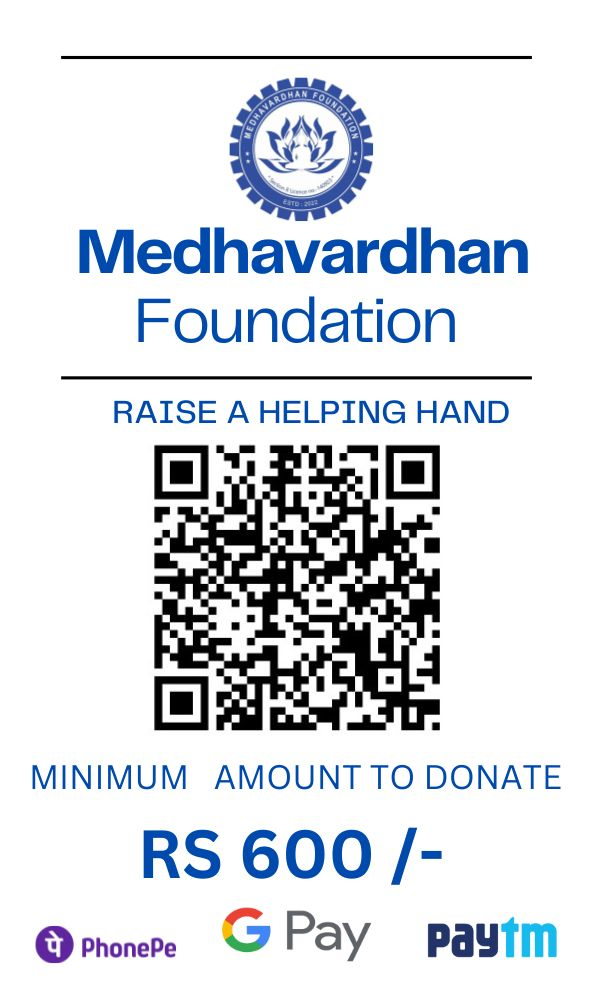
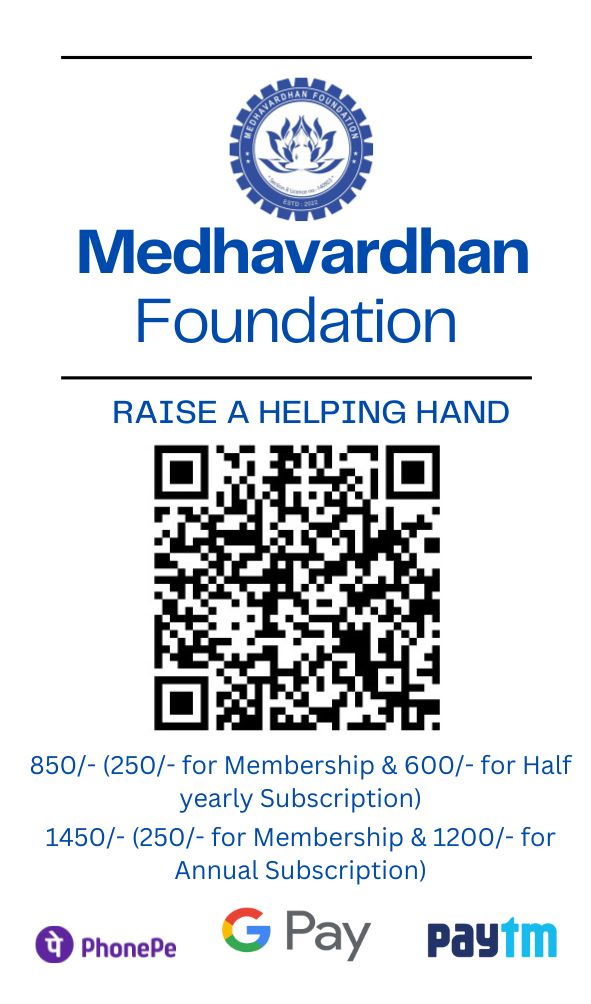
after host change #3

Changed region(s): [[0.0305, 0.741, 0.9746, 0.8954]]

diff --git a/membership.html b/membership.html
@@ -122,7 +122,7 @@
         <form class="member-form" method="POST" name="google-sheet">
           <div class="form-group row">
             <label for="formGroupName">Name</label>
-            <input type="text" class="form-control" name="Name" id="formGroupName" placeholder="Enter Your Name"
+            <input class="form-control" name="Name" id="formGroupName" placeholder="Enter Your Name"
               required>
           </div>
           <div class="form-group row">
@@ -141,44 +141,44 @@
 
           <div class="form-group row">
             <label for="formGroupName">PAN No. IN Caps</label>
-            <input type="" class="form-control" id="formGroupName" name="PAN" placeholder="ABCDF1234E"
-              pattern="[A-Z]{5}[0-9]{4}[A-Z]{1}" required>
+            <input class="form-control" id="formGroupName" name="PAN" placeholder="ABCDF1234E"
+             required>
           </div>
 
 
           <div class="form-group row">
             <label for="formGroupAddress">Address</label>
-            <input type="text" class="form-control" id="formGroupAddress" name="Address"
+            <input class="form-control" id="formGroupAddress" name="Address"
               placeholder="Enter Your Address" required>
           </div>
           <div class="form-group row">
             <label for="formGroupCity">City</label>
-            <input type="text" class="form-control" id="formGroupcity" name="City" placeholder="Enter Your City"
+            <input class="form-control" id="formGroupcity" name="City" placeholder="Enter Your City"
               required>
           </div>
           <div class="form-group row">
             <label for="formGroupCity">State</label>
-            <input type="text" class="form-control" id="formGroupcity" name="State" placeholder="Enter Your State"
+            <input class="form-control" id="formGroupcity" name="State" placeholder="Enter Your State"
               required>
           </div>
           <div class="form-group row">
             <label for="formGroupCity">Pin Code</label>
-            <input type="" class="form-control" id="formGroupcity" name='Pin' placeholder="Enter Your Pin" required>
+            <input  class="form-control" id="formGroupcity" name='Pin' placeholder="Enter Your Pin" required>
           </div>
           <div class="form-group row">
             <label for="exampleInputEmail1" class="form-label">Email address</label>
-            <input type="email" class="form-control" id="exampleInputEmail1" name="email" placeholder="abc@xyz.com"
+            <input class="form-control" id="exampleInputEmail1" name="email" placeholder="abc@xyz.com"
               aria-describedby="emailHelp" required>
             <div id="emailHelp" class="form-text">We'll never share your email with anyone else.</div>
           </div>
           <div class="form-group row">
             <label for="exampleInputNo" class="form-label">Contact No.</label>
-            <input type="tel" class="form-control" id="exampleInputNo" name="Phone" placeholder="1234567890"
-              pattern="[0-9]{10}" required>
+            <input type="tel" class="form-control" id="exampleInputNo" name="Phone No" placeholder="1234567890"
+             required>
           </div>
           <div class="form-group row">
             <label for="formGroupName">Profession</label>
-            <input type="text" class="form-control" id="formGroupName" name="Profession"
+            <input class="form-control" id="formGroupName" name="Profession"
               placeholder="Enter Your Profession" required>
           </div>
           <div class="form-group row">
@@ -212,6 +212,11 @@
             <br>
             8) Membership Fee should be paid with Application Form. On Rejection of
             Application the Membership fee will be refund within 7 working days.
+            <br>
+            9) Membership Fee :-<br>
+            Rs 850/- (250/- for Membership & 600/- for Half yearly Subscription)<br>
+            Rs 1450/- (250/- for Membership & 1200/- for Yearly Subscription)
+            
             <br>
             </p>
             <div class="form-check">
@@ -257,7 +262,7 @@
         fetch(scriptURL, { method: 'POST', body: new FormData(form) })
           .then(response => {
             alert("Thanks for showing interest. We will get back to you soon")
-            window.location.replace('index.html');
+            window.location.replace('donate2.html');
           })
           .catch(error => console.error('Error!', error.message))
       })

diff --git a/donate.html b/donate.html
@@ -117,10 +117,10 @@
           Fill The Details To Donate
         </div>
         <div class="member">
-          <form class="member-form" method="POST" name="google-sheet" onsubmit="return(proceed())">
+          <form class="member-form" method="POST" name="google-sheet">
             <div class="form-group row">
               <label for="formGroupName">Name</label>
-              <input type="text" class="form-control" name='Name' id="name" placeholder="Enter Your Name"
+              <input class="form-control" name='Name' id="name" placeholder="Enter Your Name"
                 required>
             </div>
 
@@ -137,40 +137,40 @@
             <div class="form-group row">
               <label for="formGroupName">PAN No. IN CAPS</label>
               <input type="" class="form-control" id="formGroupName" name='PAN' placeholder="ABCDF1234E"
-                pattern="[A-Z]{5}[0-9]{4}[A-Z]{1}" required>
+                 required>
             </div>
 
 
             <div class="form-group row">
               <label for="formGroupAddress">Address</label>
-              <input type="text" class="form-control" id="formGroupAddress" name='Address'
+              <input class="form-control" id="formGroupAddress" name='Address'
                 placeholder="Enter Your Address" required>
             </div>
             <div class="form-group row">
               <label for="formGroupCity">City</label>
-              <input type="text" class="form-control" id="formGroupcity" name='City' placeholder="Enter Your City"
+              <input class="form-control" id="formGroupcity" name='City' placeholder="Enter Your City"
                 required>
             </div>
             <div class="form-group row">
               <label for="formGroupCity">State</label>
-              <input type="text" class="form-control" id="formGroupcity" name='State' placeholder="Enter Your State"
+              <input class="form-control" id="formGroupcity" name='State' placeholder="Enter Your State"
                 required>
             </div>
             <div class="form-group row">
               <label for="formGroupCity">Pin Code</label>
-              <input type="" class="form-control" id="formGroupcity" name='Pin' placeholder="Enter Your Pin"
+              <input  class="form-control" id="formGroupcity" name='Pin' placeholder="Enter Your Pin"
                 required>
             </div>
             <div class="form-group row">
               <label for="exampleInputEmail1" class="form-label">Email address</label>
-              <input type="email" class="form-control" id="exampleInputEmail1" name='email' placeholder="abc@xyz.com"
+              <input class="form-control" id="exampleInputEmail1" name='email' placeholder="abc@xyz.com"
                 aria-describedby="emailHelp" required>
               <div id="emailHelp" class="form-text">We'll never share your email with anyone else.</div>
             </div>
             <div class="form-group row">
               <label for="exampleInputNo" class="form-label">Contact No.</label>
               <input type="tel" class="form-control" id="exampleInputNo" name='Phone No' placeholder="1234567890"
-                pattern="[0-9]{10}" required>
+               required>
             </div>
             <div class="tc">
               <div class="form-check">
@@ -181,8 +181,7 @@
               </div>
             </div>
             <div class="form-group row">
-              <p class="tax">*YOUR CONTRIBUTIONS ARE ELIGIBLE FOR UPTO 50% TAX BENEFIT UNDER SECTION 80G AS MEDHAVARDHAN
-                FOUNDATION IS REGISTERED AS NON PROFIT ORGANIZATION*</p>
+              <p class="tax">*YOUR CONTRIBUTIONS ARE ELIGIBLE FOR UPTO 50% TAX BENEFIT UNDER SECTION 80G *</p>
             </div>
             <div class="form-footer">
               <button type="submit" class="btn btn-success" name='Submit' value="submit" >Submit</button>
@@ -222,7 +221,10 @@
         alert("Click OK to Proceed to Payment Page")
         e.preventDefault()
         fetch(scriptURL, { method: 'POST', body: new FormData(form) })
-          .then(response => alert("Thanks for showing interest. We will get back to you soon"))
+          .then(response => {
+            alert("Thanks for showing interest. We will get back to you soon")
+            window.location.replace('donate2.html');
+          })
           .catch(error => console.error('Error!', error.message))
       })
     </script>

diff --git a/index.html b/index.html
@@ -39,37 +39,37 @@
 
 
   <header>
-    <a name="top">
-      <nav class="navbar color-me sticky-top navbar-expand-lg ">
+    <nav class="navbar color-me sticky-top navbar-expand-lg ">
         <div class="container-fluid">
-          <a class="navbar-brand color" href="index.html" name="top">
-            <img id="logo" src="mf.jpeg" alt="Logo" class="d-inline-block align-text-top">
-            <div class="name">
-              <!-- <div id="title1" class="color-me">MEDHAVARDHAN</div><br>
-                  <div id="title2" class="color-me">FOUNDATION</div> -->
+            <a class="navbar-brand color" href="index.html" name="top">
+                <img id="logo" src="mf.jpeg" alt="Logo" class="d-inline-block align-text-top">
+                <div class="name">
+                    <!-- <div id="title1" class="color-me">MEDHAVARDHAN</div><br>
+        <div id="title2" class="color-me">FOUNDATION</div> -->
+                </div>
+            </a>
+            <div class="top-button">
+                <div class="iconset-2">
+                    <a href="https://www.facebook.com/MedhavardhanFoundationNGO"> <i
+                            class="fa-brands fa-facebook fa-2x"></i></a>
+                    <!-- <a href="http://"> <i class="fa-brands fa-instagram fa-2x"></i></a> -->
+                    <a href="https://wa.me/9681717961"> <i class="fa-brands fa-whatsapp fa-2x"></i></a>
+                    <!-- <i class="fa-brands fa-twitter fa-2x"></i> -->
+                </div>
+                <div class="dm flex">
+                    <button type="button" class="btn btn-danger"><a class="nav-link color" href="donate.html">Donate
+                            Now <i class="fa-regular fa-heart fa-beat" style="--fa-animation-duration: 2s;"></i></a>
+                    </button>
+                    <button type="button" class="btn btn-primary"><a class="nav-link color"
+                            href="membership.html">Become a
+                            Member
+                            <i class="fa-regular fa-handshake"></i></a>
+                    </button>
+                </div>
             </div>
-          </a>
-          <div class="top-button">
-            <div class="iconset-2">
-              <a href="https://www.facebook.com/MedhavardhanFoundationNGO"> <i
-                  class="fa-brands fa-facebook fa-2x"></i></a>
-              <!-- <a href="http://"> <i class="fa-brands fa-instagram fa-2x"></i></a> -->
-              <a href="https://wa.me/9681717961"> <i class="fa-brands fa-whatsapp fa-2x"></i></a>
-              <!-- <i class="fa-brands fa-twitter fa-2x"></i> -->
-            </div>
-            <div class="dm flex">
-              <button type="button" class="btn btn-danger"><a class="nav-link color" href="donate.html">Donate Now <i
-                    class="fa-regular fa-heart fa-beat" style="--fa-animation-duration: 2s;"></i></a>
-              </button>
-              <button type="button" class="btn btn-primary"><a class="nav-link color" href="membership.html">Become a
-                  Member
-                  <i class="fa-regular fa-handshake"></i></a>
-              </button>
-            </div>
-          </div>
         </div>
-      </nav>
-  </header>
+    </nav>
+</header>
   <main>
     <!-- body nav -->
     <div class="bodyNav">
@@ -90,6 +90,9 @@
               </li> -->
               <li class="nav-item">
                 <a class="nav-link color" href="#a">From The Founders</a>
+              </li>
+              <li class="nav-item">
+                <a class="nav-link color" href="#80g">80G</a>
               </li>
               <li class="nav-item">
                 <a class="nav-link color" href="#f">About Medhavardhan Foundation</a>
@@ -237,6 +240,17 @@
                 </div>
             </li>
           </ul>
+        </div>
+        <div class="80g"><a name="80g">
+          <div class="bh">
+            <h2 class="heading">
+              80G
+            </h2>
+            <div class="np">
+
+              <img src="80g.jpg" class="img-fluid" alt="80G Certificate" style="width: 50vw;">
+            </div>
+          </div>
         </div>
 
     </div>

diff --git a/corporate.html b/corporate.html
@@ -117,25 +117,28 @@
             <form class="corporate-form" method="POST" name="google-sheet">
                 <div class="form-group row">
                   <label for="formGroupName">Name</label>
-                  <input type="text" class="form-control" name="Name" id="formGroupName" placeholder="Enter Your Name">
+                  <input  class="form-control" name="Name" id="formGroupName" placeholder="Enter Your Name" required>
                 </div>
                 <div class="form-group row">
                   <label for="formGroupAddress">Address</label>
-                  <input type="text" class="form-control" name="Address" id="formGroupAddress" placeholder="Enter Your Address">
+                  <input  class="form-control" name="Address" id="formGroupAddress" placeholder="Enter Your Address" required>
                 </div>
                 <div class="form-group row">
-                  <label for="formGroupCity">City & State</label>
-                  <input type="text" class="form-control" name="City & State" id="formGroupity" placeholder="Enter Your City & State">
+                  <label for="formGroupCity">City</label>
+                  <input  class="form-control" name="City" id="formGroupity" placeholder="Enter Your City" required>
+                </div>
+                <div class="form-group row">
+                  <label for="formGroupCity">State</label>
+                  <input  class="form-control" name="State" id="formGroupity" placeholder="Enter Your State" required>
                 </div>
                 <div class="form-group row">
                   <label for="exampleInputEmail1" class="form-label">Email address</label>
-                  <input type="email" class="form-control" name="Email" id="exampleInputEmail1" aria-describedby="emailHelp">
+                  <input class="form-control" name="Email" id="exampleInputEmail1" aria-describedby="emailHelp" required>
                   <div id="emailHelp" class="form-text">We'll never share your email with anyone else.</div>
                 </div>
                 <div class="form-group row">
                   <label for="exampleInputNo" class="form-label">Contact No.</label>
-                  <input type="tel" class="form-control" name="Phone No" id="exampleInputNo" placeholder="1234567890"
-                    pattern="[0-9]{10}">
+                  <input type="tel" class="form-control" name="Phone No" id="exampleInputNo" placeholder="1234567890" required>
                 </div>
                 <div class="form-footer">
                     <button type="submit" class="btn btn-success" value="submit" name="submit">Submit</button>
@@ -176,8 +179,11 @@
                   form.addEventListener('submit', e => {
                     e.preventDefault()
                     fetch(scriptURL, { method: 'POST', body: new FormData(form)})
-                      .then(response => alert("Thanks for showing interest. We will get back to you soon"))
-                      .catch(error => console.error('Error!', error.message))
+                      .then(response => {
+            alert("Thanks for showing interest. We will get back to you soon")
+            window.location.replace('index.html');
+          })
+                      .catch(error => alert('Form Not filled', error.message))
                   })
                 </script>
                 <script src="index.js"></script>

diff --git a/style.css b/style.css
@@ -97,7 +97,8 @@
 .dev{
     width: 100vw;
     display: flex;
-    justify-content: right;
+    justify-content: center;
+    align-items: center;
     color: black
     
 }
@@ -360,7 +361,7 @@ width: 100vw;
     vertical-align: middle;
 }
 .tax{
-    font-size: x-small;
+    font-size: 18px;
     text-align: center;
 }
 #modalimg{
@@ -440,4 +441,8 @@ height: fit-content;
 
 .carousel-caption {
     bottom: 16.8rem;
+}
+.np{
+display: flex;
+justify-content: center;
 }

diff --git a/index.js b/index.js
@@ -8,3 +8,4 @@ let proceed=()=> {
 
 
 }
+
